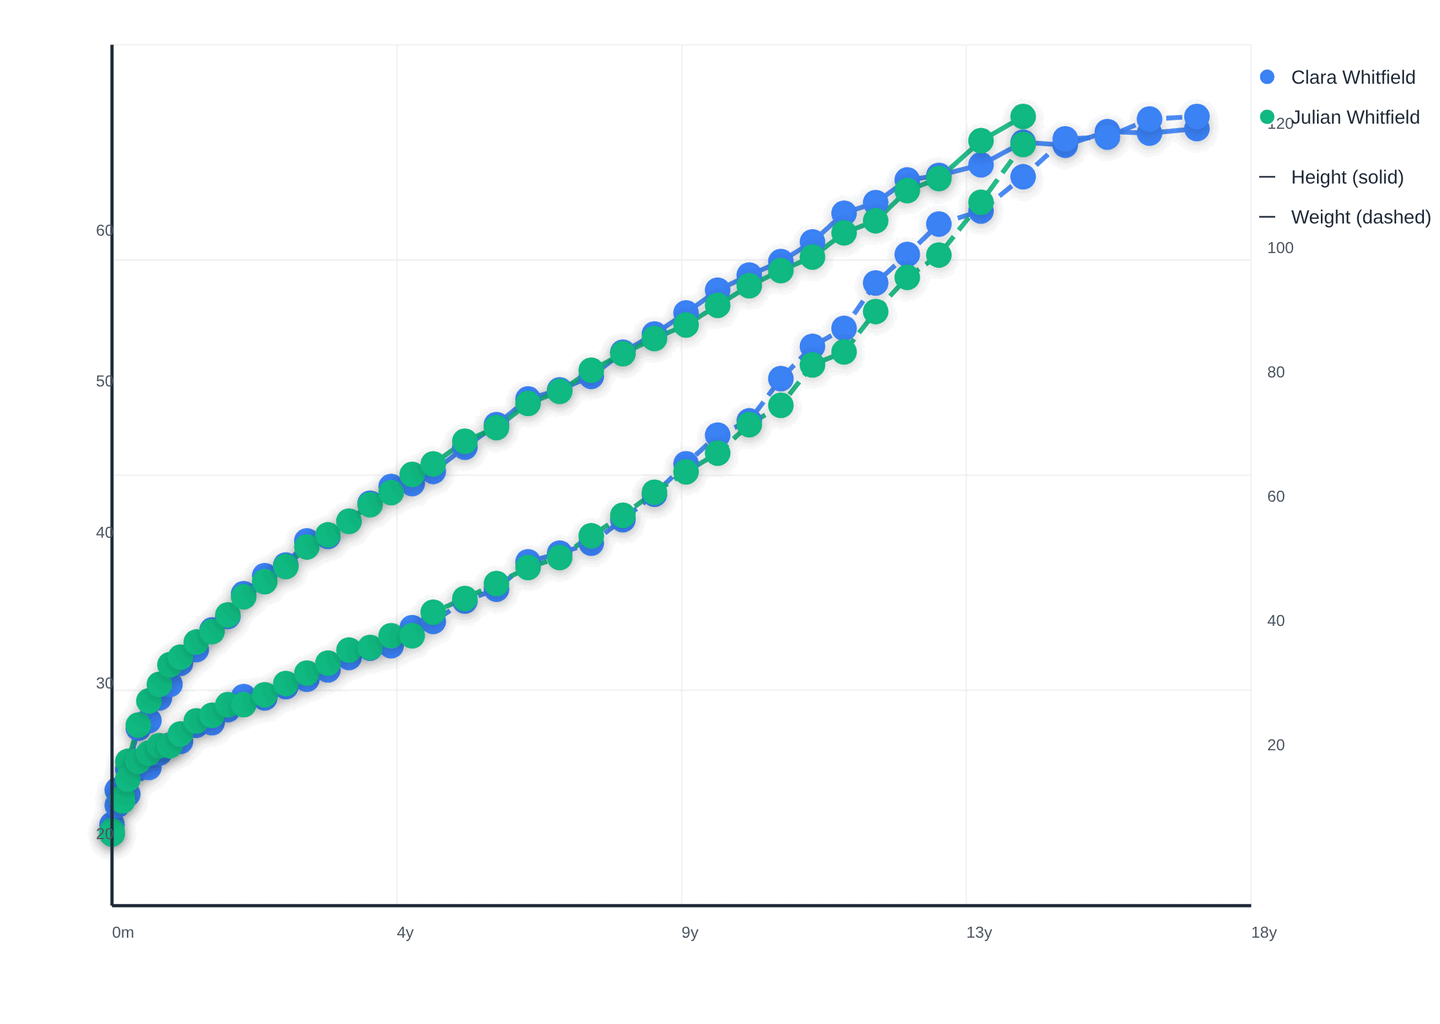
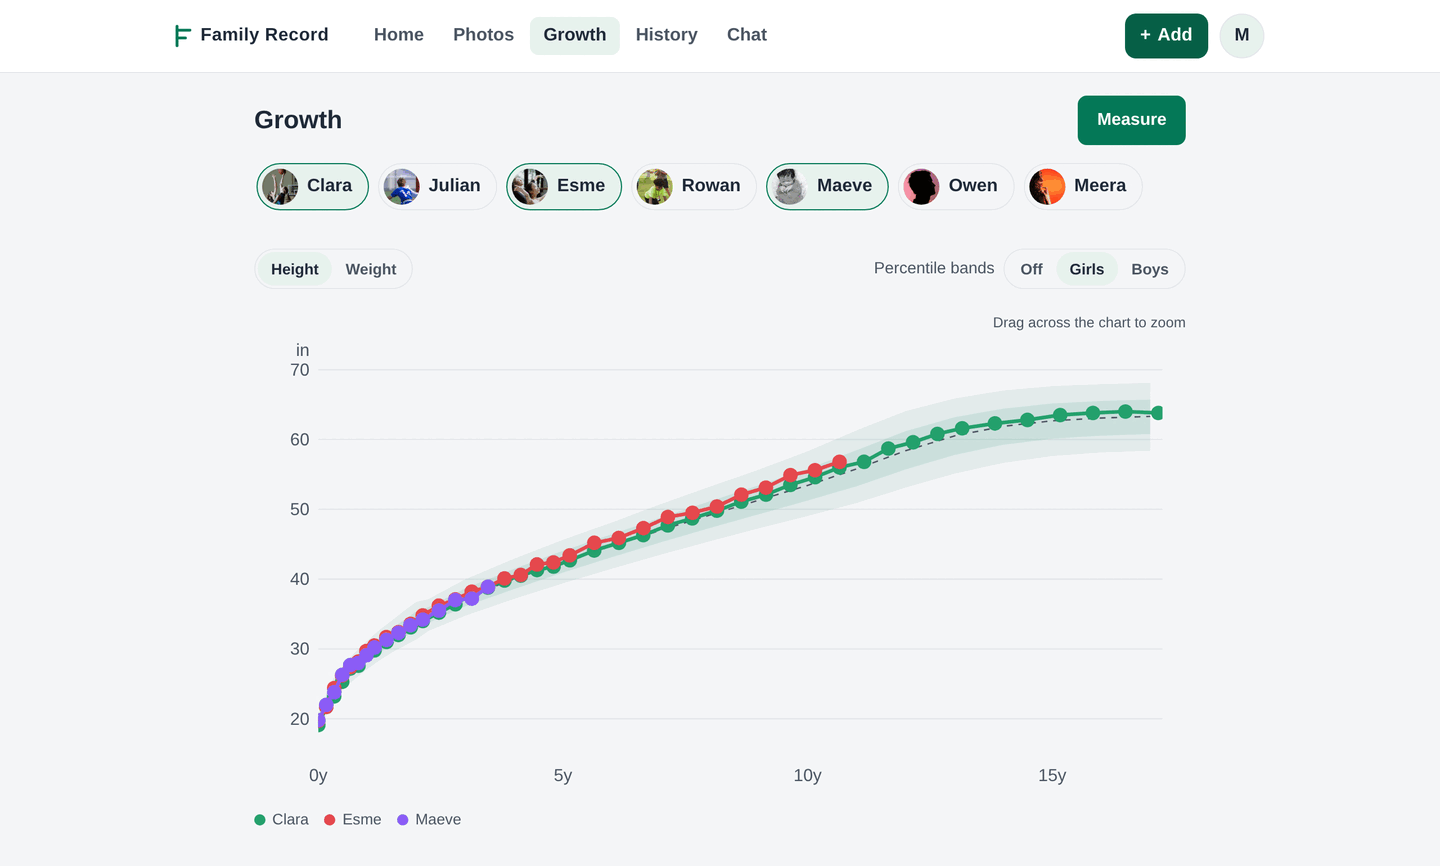
screenshot updates

diff --git a/frontend/pages/home/home.tsx b/frontend/pages/home/home.tsx
@@ -107,17 +107,17 @@ const LandingPage = ({ providers }: { providers: AuthProviders }) => (
       <Shot
         src="/images/screenshots/person.png"
         alt="A person's page"
-        caption="Each person has a page gathering their milestones, measurements, and photos."
+        caption="A person's page: their latest measurements, their brothers and sisters at the same age, and everything recorded about them below."
       />
       <Shot
         src="/images/screenshots/growth.png"
         alt="The family growth chart"
-        caption="Growth charted by age, one child or several on the same axes."
+        caption="Height or weight by age, for one child or several together, with optional percentile bands."
       />
       <Shot
-        src="/images/screenshots/timeline.png"
-        alt="The family timeline"
-        caption="The timeline puts everything in one list, filtered by person or by kind."
+        src="/images/screenshots/history.png"
+        alt="The family history"
+        caption="History lists milestones, measurements, photos, and results in date order, filtered by person, year, or search."
       />
     </section>
 

diff --git a/backend/seed.go b/backend/seed.go
@@ -527,9 +527,10 @@ type milestoneTemplate struct {
 	tags        []string
 }
 
-// Every child gets the templates that fall at or before their current age, so
-// the teenager has a long history and the toddler has a short one, without
-// either list being written out twice.
+// Each child gets most of the templates that fall at or before their current
+// age, so the teenager has a long history and the toddler has a short one.
+// Some are skipped and the rest land a few weeks either side of the template
+// age, so siblings compared at the same age don't share identical records.
 var childMilestones = []milestoneTemplate{
 	{0, 2, "First real smile", "development", []string{"Firsts"}},
 	{0, 4, "Rolled over unassisted", "development", []string{"Firsts"}},
@@ -584,6 +585,16 @@ func (s *seeder) childMilestones(person Person, tags map[string]Tag) {
 		date := person.Birthday.AddDate(template.years, template.months, 0)
 		if date.After(s.now) {
 			break
+		}
+		if s.rng.Float64() < 0.3 {
+			continue
+		}
+		date = date.AddDate(0, 0, s.rng.Intn(61)-30)
+		if date.After(s.now) {
+			date = s.now
+		}
+		if date.Before(person.Birthday) {
+			date = person.Birthday
 		}
 		s.milestone(person, date, template.description, template.category, lookupTags(tags, template.tags)...)
 	}
